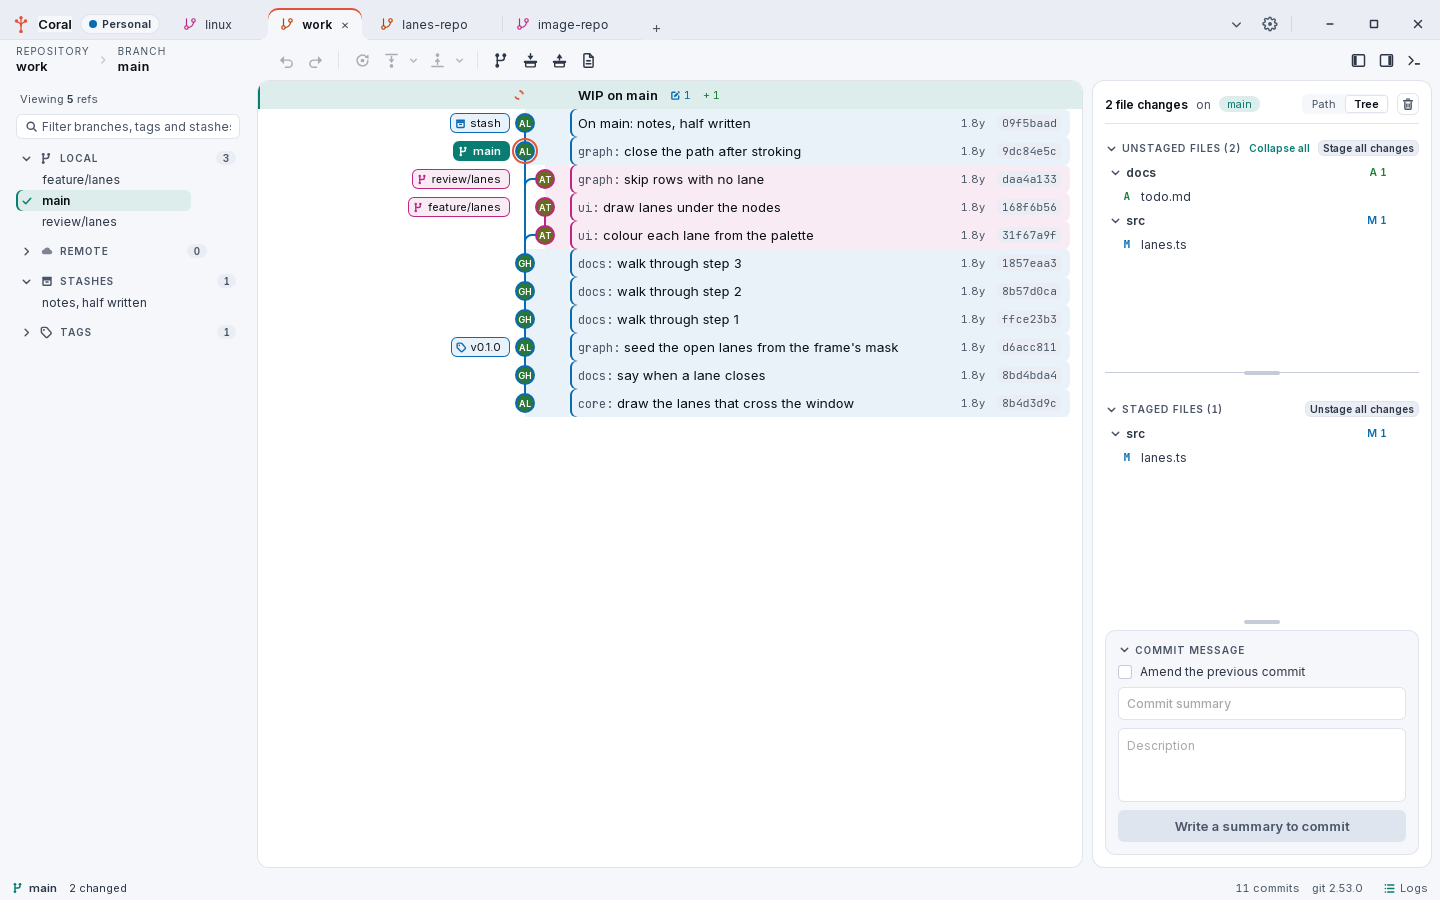
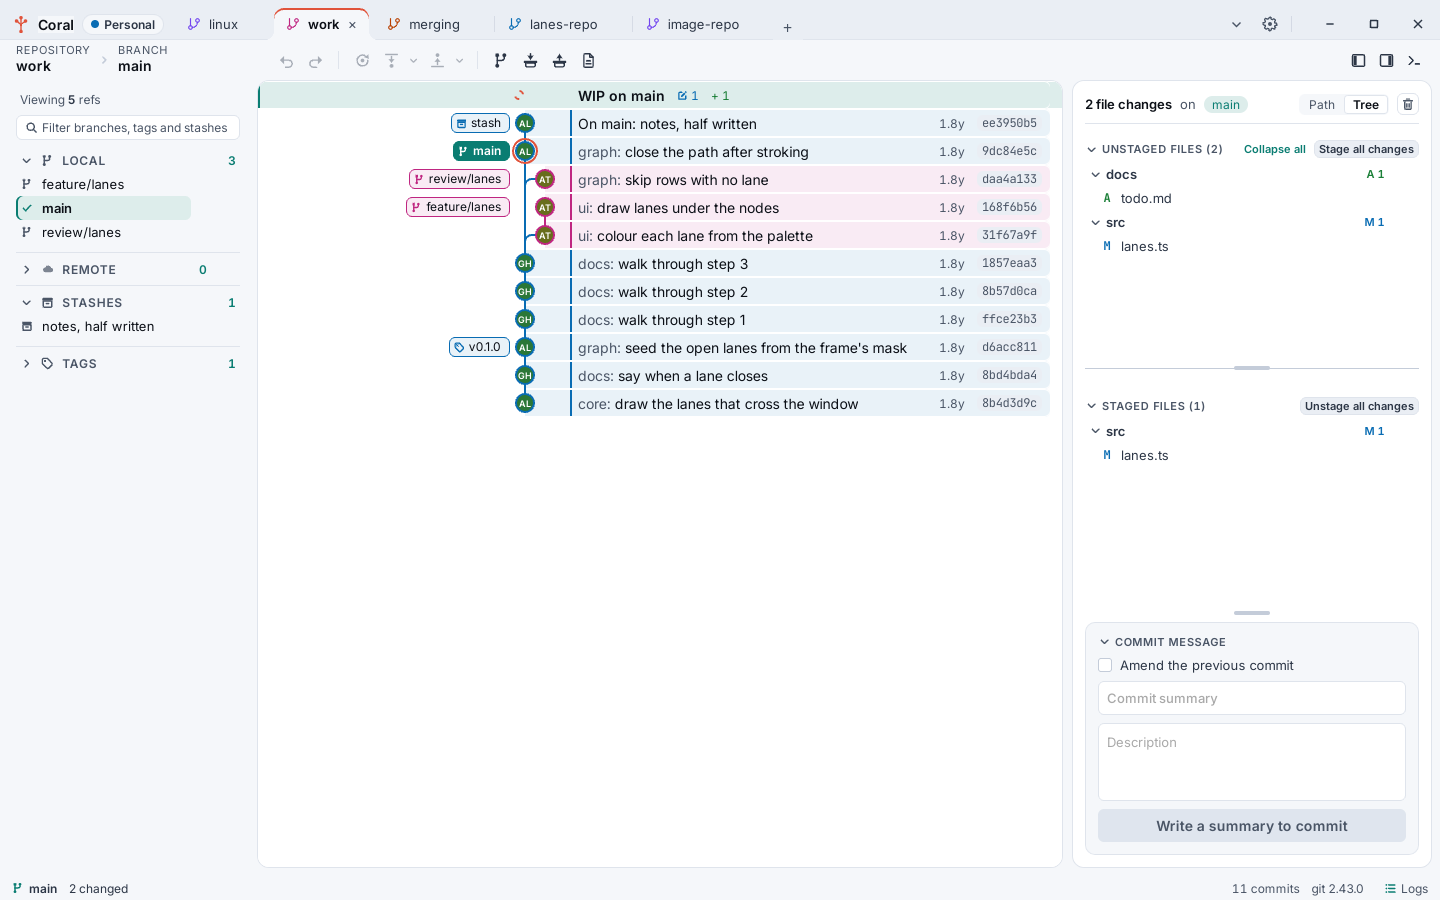
docs: every screenshot retaken with the quieter rows, panels and type
All fifteen show 1.5.0's window: one line per commit with a gap between rows, the branch panel
parted by rules, the commit message boxed, and type a pixel larger. Taken from the release
binary under WebKitGTK at 1440 by 900. The graph, palette, dark theme and terminal are a fresh
clone of the kernel, now 1,506,079 commits and 952 tags, which the README says; the checkout
picture is the hosting test's fake GitHub, and the rest are the window tour's fixtures and
three small repositories made for a bisect, an image change and lost work.

Claude-Session: https://claude.ai/code/session_019zKzfW13K5bbV3zVu1BVwx

diff --git a/README.md b/README.md
@@ -18,8 +18,8 @@ run against a real clone.
 
 ## What it looks like
 
-The graph, the palette, the terminal and the dark theme below are the Linux kernel: 1,481,528
-commits and 944 tags. The rest are a small repository, because a diff, a conflict and a rebase
+The graph, the palette, the terminal and the dark theme below are the Linux kernel: 1,506,079
+commits and 952 tags. The rest are a small repository, because a diff, a conflict and a rebase
 are easier to read when the file in them is ten lines rather than ten thousand.
 
 ![The graph on the Linux kernel](docs/screenshots/01-graph.png)
